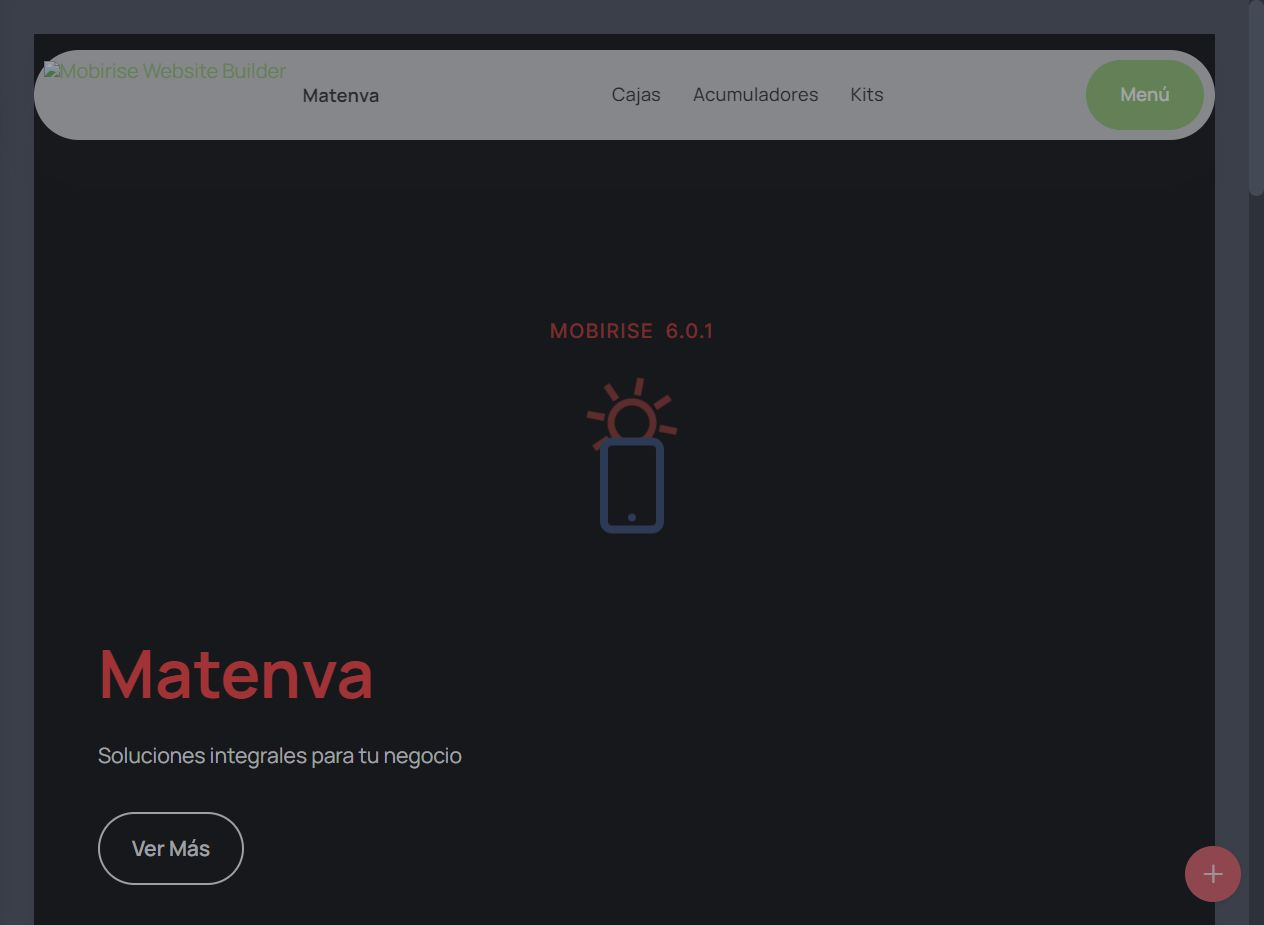
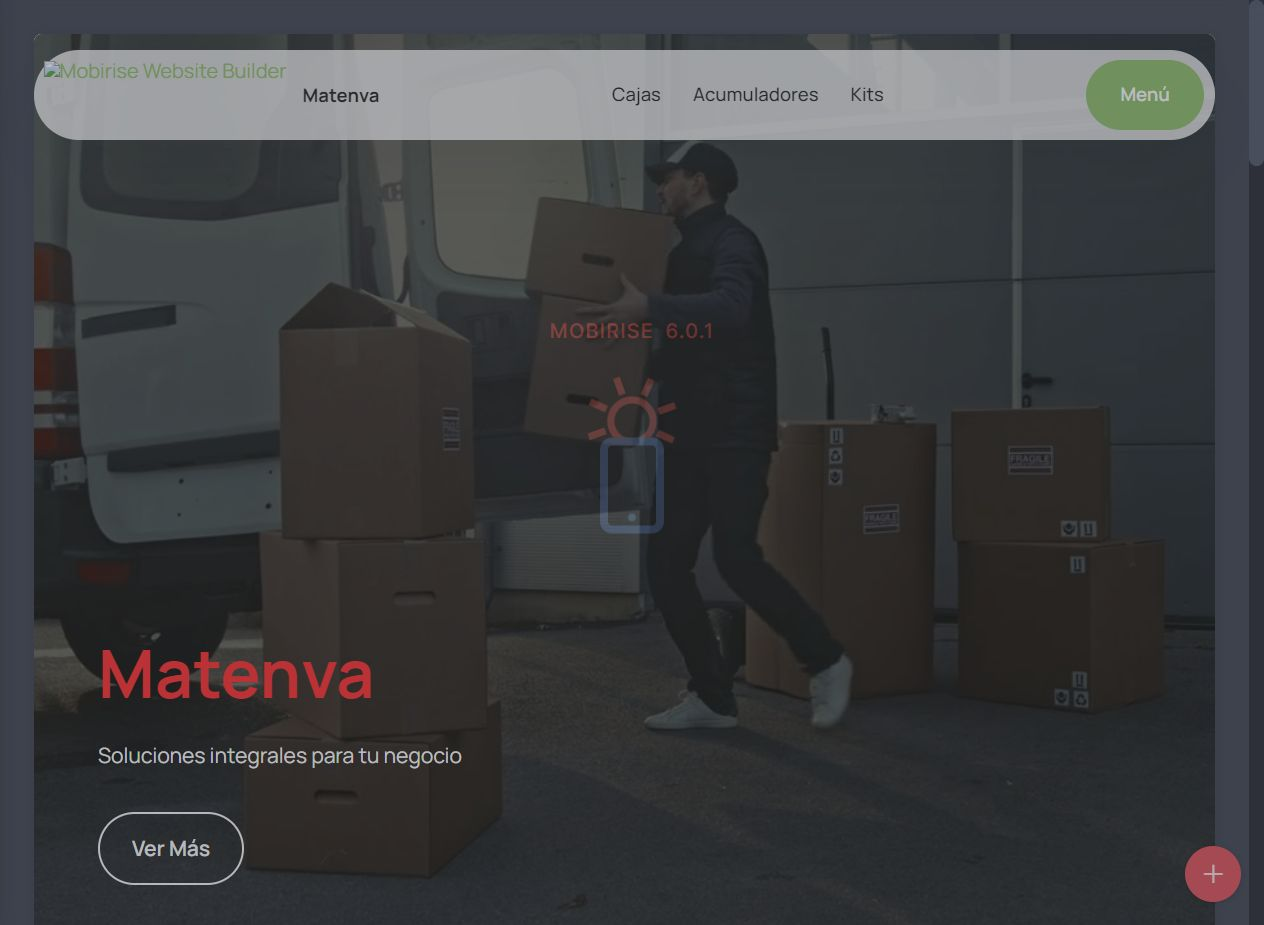
Final

diff --git a/index.html b/index.html
@@ -73,14 +73,11 @@
     <div class="row">
       <div class="content-wrap col-12 col-md-12">
         <h1 class="mbr-section-title mbr-fonts-style mbr-white mb-4 display-1">
-          <strong>Matenva</strong>
+          <strong>Matenva <br></strong>
         </h1>
         
-        <p class="mbr-fonts-style mbr-text mbr-white mb-4 display-7">Soluciones integrales para tu negocio.</p>
-        <p class="mbr-fonts-style mbr-text mbr-white mb-4 display-7">Para visitar nuestra tienda "ParaMiFiesta" haz click en "Ver Más".</p>
-        <div class="mbr-section-btn">
-          <a class="btn btn-white-outline display-7" href="https://www.paramifiesta.es/" target="_blank" rel="noopener noreferrer">Ver Más</a>
-        </div>
+        <p class="mbr-fonts-style mbr-text mbr-white mb-4 display-7">Soluciones integrales en envases y embalaje para tu negocio. <br> 
+        Embala tu tranquilidad con productos de alta calidad y un servicio confiable.</p>
       </div>
     </div>
   </div>
@@ -158,10 +155,6 @@
 
 
 <section data-bs-version="5.1" class="social4 cid-uLDv76qelf" id="social04-7">
-    
-    
-    
-
     <div class="container">
         <div class="media-container-row">
             <div style="padding-top: 20px;" class="col-12">
